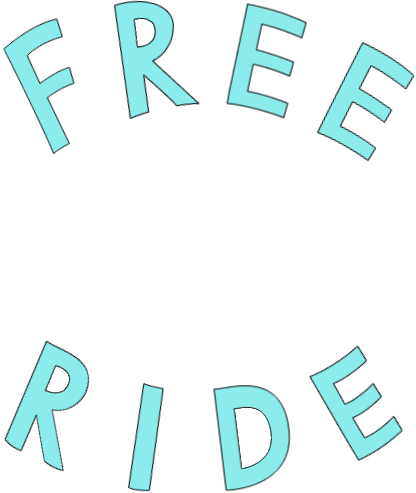
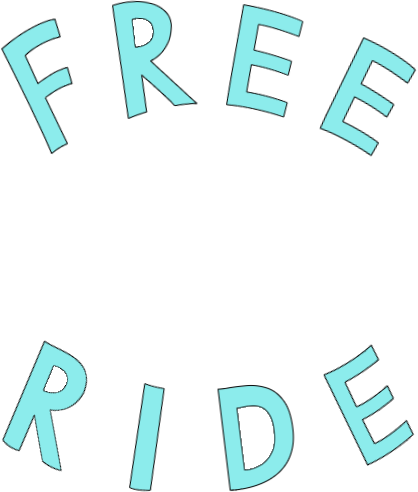
bug fixes, redesign pictures, mobile version fixes

diff --git a/Code/sketches/StoneManager.js b/Code/sketches/StoneManager.js
@@ -11,20 +11,39 @@ class StoneManager {
     letStones() {
         for (let layer = stonelayerManager.stonelayers.length - 1; this.stones.length < stonelayerManager.stonelayers.length; layer++) {
             var thisLayer = stonelayerManager.stonelayers[layer];
-            this.points = [
-                [
-                    thisLayer.layerX + Helper.getRandomInt(45, 55) / 100 * thisLayer.layerWidth,
-                    thisLayer.layerX + Helper.getRandomInt(87.3, 97.3) / 100 * thisLayer.layerWidth,
-                    thisLayer.layerX + Helper.getRandomInt(45, 55) / 100 * thisLayer.layerWidth,
-                    thisLayer.layerX + Helper.getRandomInt(2.7, 12.7) / 100 * thisLayer.layerWidth
-                ],
-                [
-                    thisLayer.layerY + Helper.getRandomInt(5, 15) / 100 * thisLayer.layerHeight,
-                    thisLayer.layerY + Helper.getRandomInt(10, 20) / 100 * thisLayer.layerHeight,
-                    thisLayer.layerY + Helper.getRandomInt(85, 95) / 100 * thisLayer.layerHeight,
-                    thisLayer.layerY + Helper.getRandomInt(80, 90) / 100 * thisLayer.layerHeight
-                ]
-            ];
+            if (thisLayer.layerWidth < thisLayer.layerHeight) {
+                this.points = [
+                    [
+                        thisLayer.layerX + Helper.getRandomInt(45, 55) / 100 * thisLayer.layerWidth,
+                        thisLayer.layerX + Helper.getRandomInt(87.3, 97.3) / 100 * thisLayer.layerWidth,
+                        thisLayer.layerX + Helper.getRandomInt(45, 55) / 100 * thisLayer.layerWidth,
+                        thisLayer.layerX + Helper.getRandomInt(2.7, 12.7) / 100 * thisLayer.layerWidth
+                    ],
+                    [
+                        thisLayer.layerY + Helper.getRandomInt(5, 15) / 100 * thisLayer.layerHeight,
+                        thisLayer.layerY + Helper.getRandomInt(10, 20) / 100 * thisLayer.layerHeight,
+                        thisLayer.layerY + Helper.getRandomInt(85, 95) / 100 * thisLayer.layerHeight,
+                        thisLayer.layerY + Helper.getRandomInt(80, 90) / 100 * thisLayer.layerHeight
+                    ]
+                ];
+            }
+            else {
+                this.points = [
+                    [
+                        thisLayer.layerX + Helper.getRandomInt(85, 95) / 100 * thisLayer.layerWidth,
+                        thisLayer.layerX + Helper.getRandomInt(80, 90) / 100 * thisLayer.layerWidth,
+                        thisLayer.layerX + Helper.getRandomInt(5, 15) / 100 * thisLayer.layerWidth,
+                        thisLayer.layerX + Helper.getRandomInt(10, 20) / 100 * thisLayer.layerWidth
+                    ],
+                    [
+                        thisLayer.layerY + Helper.getRandomInt(45, 55) / 100 * thisLayer.layerHeight,
+                        thisLayer.layerY + Helper.getRandomInt(87.3, 97.3) / 100 * thisLayer.layerHeight,
+                        thisLayer.layerY + Helper.getRandomInt(45, 55) / 100 * thisLayer.layerHeight,
+                        thisLayer.layerY + Helper.getRandomInt(2.7, 12.7) / 100 * thisLayer.layerHeight
+                    ]
+                ];
+            }
+
 
             var stone = new Stone();
             stone.stoneLayer = thisLayer;
@@ -51,7 +70,6 @@ class StoneManager {
             filteredStones = filteredStones.filter(stone => max(stone.points[1]) >= Y);
             filteredStones = filteredStones.filter(stone => min(stone.points[1]) <= Y);
             if (filteredStones.length > 0) {
-                play = false;
                 for (let point = 0; point < filteredStones[0].points[0].length; point++) {
                     var point1x = filteredStones[0].points[0][point];
                     var point1y = filteredStones[0].points[1][point];
@@ -75,12 +93,12 @@ class StoneManager {
                                     var stonePoint = point2y + littleWidth / stoneWidth * stoneHeight;
 
                                     if (point2x >= point1x) {
-                                        if (Y < stonePoint) {
-                                            play = true;
+                                        if (Y > stonePoint) {
+                                            play = false;
                                         }
                                     }
-                                    else if (Y > stonePoint) {
-                                        play = true;
+                                    else if (Y < stonePoint) {
+                                        play = false;
                                     }
                                 }
                             }

diff --git a/Code/sketches/HtmlCommunication.js b/Code/sketches/HtmlCommunication.js
@@ -11,18 +11,52 @@ class HtmlCommunication {
         document.getElementById('startButton').addEventListener('click', function () {
             self.startGame();
         })
-        document.getElementById('playbuttonLeft').addEventListener('mousedown', function () {
+        document.getElementById('playbuttonLeft').addEventListener('touchstart', function () {
             skier.playbuttonLeft = true;
         })
-        document.getElementById('playbuttonLeft').addEventListener('click', function () {
+        document.getElementById('playbuttonLeft').addEventListener('touchend', function () {
             skier.playbuttonLeft = false;
         })
-        document.getElementById('playbuttonRight').addEventListener('mousedown', function () {
+        document.getElementById('playbuttonRight').addEventListener('touchstart', function () {
             skier.playbuttonRight = true;
         })
-        document.getElementById('playbuttonRight').addEventListener('click', function () {
+        document.getElementById('playbuttonRight').addEventListener('touchend', function () {
             skier.playbuttonRight = false;
         })
+        if (document.fullscreenElement == null) {
+            document.getElementById('fullscreenButton').addEventListener('click', function () {
+                if (document.documentElement.requestFullscreen) {
+                    document.documentElement.requestFullscreen();
+                } else if (document.documentElement.mozRequestFullScreen) {
+                    document.documentElement.mozRequestFullScreen();
+                } else if (document.documentElement.webkitRequestFullscreen) {
+                    document.documentElement.webkitRequestFullscreen();
+                } else if (document.documentElement.msRequestFullscreen) {
+                    document.documentElement.msRequestFullscreen();
+                }
+                screen.orientation.lock("landscape-primary")
+
+                if (displayHeight / displayWidth < skiGradient) {
+                    canvasWidthDisplacement = displayWidth - displayHeight / skiGradient;
+                }
+                else if (displayHeight / displayWidth > skiGradient) {
+                    canvasHeightDisplacement = displayHeight - displayWidth * skiGradient;
+                }
+
+                cnv = createCanvas(displayWidth - canvasWidthDisplacement, displayHeight - canvasHeightDisplacement);
+                cnv.position(canvasWidthDisplacement / 2, canvasHeightDisplacement / 2)
+
+                self.ResizeMenu();
+                document.getElementById('scoreField').style.display = 'none';
+                document.getElementById('startButtonContainer').style.display = 'flex';
+                document.getElementById("home").style.zIndex = 2;
+                play = false;
+                document.getElementById('fullscreenButton').style.display = 'none';
+            })
+        }
+        else {
+            document.getElementById('fullscreenButton').style.display = 'none';
+        }
     }
 
     ResizeMenu() {
@@ -88,6 +122,7 @@ class HtmlCommunication {
         firManager.firs = [];
         slalomManager.poles = [];
         slalomLines.counter = 0;
+        snowflakeManager.snowflakes = [];
         spawnSpeed = 2;
         score = 0;
         meters = 0;
@@ -97,7 +132,7 @@ class HtmlCommunication {
         play = true;
         chasmManager.letFirstChasm();
         firManager.letFirstFir();
-        for (let times = 0; times <= 20; times++) {
+        for (let times = 0; times <= 25; times++) {
             chasmManager.letChasm();
             firManager.letForest();
         }

diff --git a/Code/sketches/SlalomLines.js b/Code/sketches/SlalomLines.js
@@ -7,6 +7,7 @@ class SlalomLines {
     counter = 0;
 
     calculateLine() {
+        console.log(this.counter)
         var pole = slalomManager.poles[this.counter];
         if (pole.type == 'blau') {
             this.x1 = pole.x + 104 / 640 * height / 4 + height;
@@ -95,10 +96,10 @@ class SlalomLines {
             }
         }
         testY = a1 * (skierHitbox.skierHitpoints[oneOrThree].x) + b1;
-        if (skierHitbox.skierHitpoints[oneOrThree].y >= testY && pole.type !== 'ziel') {
+        if (skierHitbox.skierHitpoints[oneOrThree].y >= testY && pole.type !== 'ziel' && modus == 'slalom') {
             this.counter += 1
         }
-        else if (skierHitbox.skierHitpoints[oneOrThree].y >= testY && pole.type == 'ziel') {
+        else if (skierHitbox.skierHitpoints[oneOrThree].y >= testY && pole.type == 'ziel' && modus == 'slalom') {
             score += 500;
             this.slalomEnd()
             won = true

diff --git a/Code/sketches/sketch.js b/Code/sketches/sketch.js
@@ -9,6 +9,7 @@ var stoneManager = new StoneManager();
 var slalomManager = new SlalomManager();
 var slalomLines = new SlalomLines();
 var firebaseManager = new FirebaseManager();
+var cnv;
 var play = false;
 var spawnSpeed = 2;
 var score = 0;
@@ -31,7 +32,7 @@ function setup() {
     canvasHeightDisplacement = windowHeight - windowWidth * skiGradient;
   }
 
-  let cnv = createCanvas(windowWidth - canvasWidthDisplacement, windowHeight - canvasHeightDisplacement);
+  cnv = createCanvas(windowWidth - canvasWidthDisplacement, windowHeight - canvasHeightDisplacement);
   cnv.position(canvasWidthDisplacement / 2, canvasHeightDisplacement / 2)
 
   htmlCommunication.initializeButtons();
@@ -50,7 +51,7 @@ function draw() {
   background(220);
   if (play == true) {
     if (transparence > 0) {
-      transparence -= 1;
+      transparence -= 2;
     }
 
     if (meters > 50) {

diff --git a/Code/style.css b/Code/style.css
@@ -7,6 +7,7 @@ body {
   background-color: rgb(31, 31, 31);
   color: rgb(31, 31, 31);
   font-family: Helvetica;
+  overflow: hidden;
 }
 
 p {
@@ -17,6 +18,11 @@ p {
 h4 {
   margin: 0;
   font-size: 10px;
+}
+
+button {
+  background-color: transparent;
+  border: 0;
 }
 
 .home {
@@ -69,6 +75,8 @@ canvas {
   width: 100%;
   height: 100%;
   z-index: 1;
+  display: flex;
+  flex-direction: row;
 }
 
 .playbuttonLeft {
@@ -76,15 +84,17 @@ canvas {
   padding: 0;
   width: 50%;
   height: 100%;
-  background-color: transparent;
 }
 
 .playbuttonRight {
   border: 0;
   padding: 0;
-  width: 49.5%;
+  width: 50%;
   height: 100%;
-  margin-right: 0%;
-  margin-top: 0%;
-  background-color: transparent;
+}
+
+.fullscreenButton {
+  position: absolute;
+  background-color: red;
+  z-index: 5;
 }

diff --git a/Code/sketches/StonelayerManager.js b/Code/sketches/StonelayerManager.js
@@ -19,8 +19,14 @@ class StonelayerManager {
     letStonelayers(timeBetweenDraw) {
         if (Helper.getRandomInt(1, timeBetweenDraw * spawnSpeed) == 1) {
             var size = Helper.getRandomInt(1200, 800) / 100;
-            this.layerWidth = height / size * 2;
-            this.layerHeight = width / size;
+            if (Helper.getRandomInt(0, 100) > 25) {
+                this.layerWidth = height / size * 2;
+                this.layerHeight = width / size;
+            }
+            else {
+                this.layerWidth = width / size;
+                this.layerHeight = height / size * 2;
+            }
             this.layerX = width + height / 4;
 
             var filteredChasms = chasmManager.chasms.filter(chasm => chasm.x2 >= this.layerX);

diff --git a/Code/index.html b/Code/index.html
@@ -13,7 +13,7 @@
   <script src="libraries/p5.sound.min.js"></script>
 </head>
 
-<body>
+<body id="body">
   <div id="home" class="home">
     <div class="freeride" id="freeride">
       <img src="pictures/freeride.png" width="500" height='500' id="img">
@@ -61,6 +61,8 @@
     <button class="playbuttonLeft" id="playbuttonLeft"></button>
     <button class="playbuttonRight" id="playbuttonRight"></button>
   </div>
+
+  <button class="fullscreenButton" id="fullscreenButton">Fullscreen</button>
 
   <script src="https://www.gstatic.com/firebasejs/8.3.1/firebase-app.js"></script>
   <script src="https://www.gstatic.com/firebasejs/8.3.1/firebase-database.js"></script>

diff --git a/Code/sketches/Skier.js b/Code/sketches/Skier.js
@@ -31,13 +31,13 @@ class Skier {
 
     rotate(timeBetweenDraw) {
         if (this.rotateCounter >= 0.03 * timeBetweenDraw) {
-            if (keyIsDown(LEFT_ARROW) || this.playbuttonLeft == true) {
+            if (keyIsDown(DOWN_ARROW) || this.playbuttonLeft == true) {
                 if (skier.rotation <= 5) {
                     skier.rotation += 1;
                 }
 
             }
-            if (keyIsDown(RIGHT_ARROW) || this.playbuttonRight == true) {
+            if (keyIsDown(UP_ARROW) || this.playbuttonRight == true) {
                 if (skier.rotation >= -5) {
                     skier.rotation -= 1;
                 }

diff --git a/Code/sketches/Stone.js b/Code/sketches/Stone.js
@@ -3,13 +3,11 @@ class Stone {
     points = [];
 
     draw() {
-        var pointsToDraw = this.points;
-        fill(150)
+        fill(115)
         beginShape(TESS);
-        for (let length = 0; length < pointsToDraw[0].length; length++) {
-            vertex(pointsToDraw[0][length], pointsToDraw[1][length])
+        for (let length = 0; length < this.points[0].length; length++) {
+            vertex(this.points[0][length], this.points[1][length])
         }
-        endShape(CLOSE);
+        endShape();
     }
 }
-
